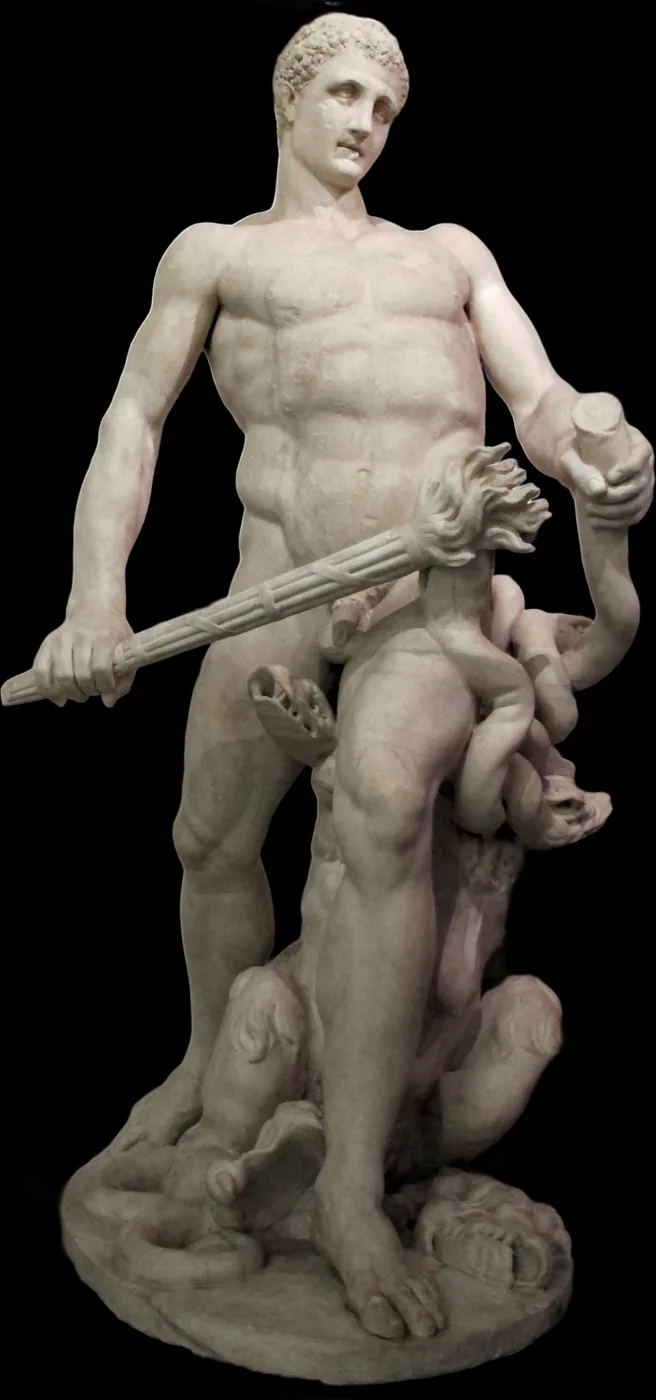
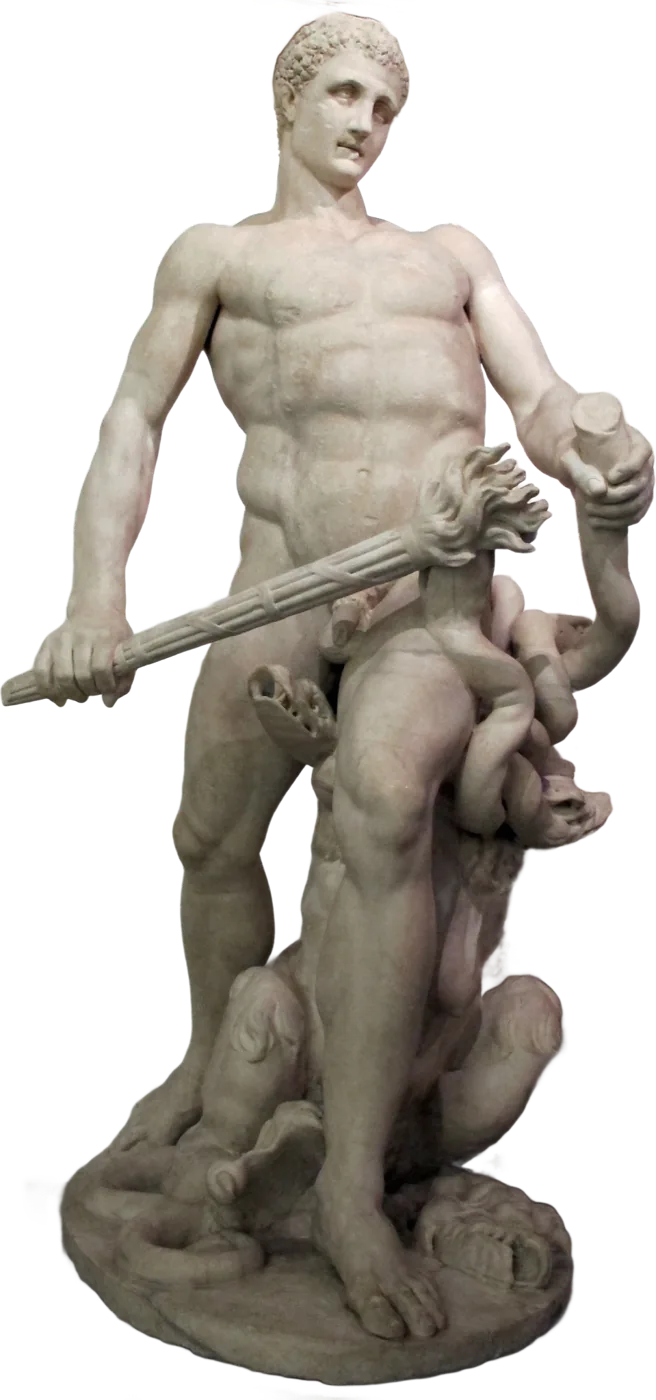
Show only the statue under the hover lens
The lens photos were saved on solid black, so the lime duotone painted a
dark olive box around each statue. Save them with their cut-out alpha
instead, and clear the lens to the fold's own background (light on the
Prizes fold) rather than always black.

diff --git a/src/components/art/Statue.tsx b/src/components/art/Statue.tsx
@@ -59,12 +59,15 @@ export default function Statue({
   name,
   alt,
   ink = "#f2f2f2",
+  paper = "#000",
   className = "",
 }: {
   name: StatueName;
   alt: string;
   /** Dot colour; pass a dark ink when placing the statue on a light fold. */
   ink?: string;
+  /** Background behind the statue, so the hover lens blends into the fold. */
+  paper?: string;
   className?: string;
 }) {
   const canvasRef = useRef<HTMLCanvasElement>(null);
@@ -127,7 +130,7 @@ export default function Statue({
       (x, y, open) => {
         ctx.clearRect(0, 0, cw, ch);
         ctx.drawImage(dots, 0, 0, cw, ch);
-        drawLens(ctx, x, y, open, mono, () => ctx.drawImage(photo, 0, 0, cw, ch));
+        drawLens(ctx, x, y, open, mono, () => ctx.drawImage(photo, 0, 0, cw, ch), paper);
       },
     );
 
@@ -158,7 +161,7 @@ export default function Statue({
       lensMedia.removeEventListener("change", layout);
       lens.dispose();
     };
-  }, [name, ink]);
+  }, [name, ink, paper]);
 
   return (
     <div role="img" aria-label={alt} className={`relative ${className}`} style={{ aspectRatio: ASPECT[name] }}>

diff --git a/src/components/home/Prizes.tsx b/src/components/home/Prizes.tsx
@@ -13,7 +13,7 @@ export default function Prizes() {
         <SectionHeading eyebrow="Prizes" dim="Three on the podium," bright="Something for all." intro={prizes.podiumNote} />
         {/* The Discobolus: an Olympic athlete mid-throw, on the light fold in dark ink. */}
         <figure className="mx-auto w-56">
-          <Statue name="discobolus" ink="#141414" alt="The Discobolus, an athlete throwing a discus, printed as a halftone" className="mx-auto w-32 lg:w-36" />
+          <Statue name="discobolus" ink="#141414" paper="#f2f2f2" alt="The Discobolus, an athlete throwing a discus, printed as a halftone" className="mx-auto w-32 lg:w-36" />
           <Caption n={4}>Myron’s discus thrower: winners were crowned with olive, yours get hardware.</Caption>
         </figure>
       </div>

diff --git a/src/components/hero/lens.ts b/src/components/hero/lens.ts
@@ -57,6 +57,8 @@ export function drawLens(
   open: number,
   mono: string,
   content: () => void,
+  /** Colour the lens clears to before `content`; match the page behind it. */
+  paper = "#000",
 ) {
   if (open <= 0.001) return;
   const r = LENS * open;
@@ -64,7 +66,7 @@ export function drawLens(
   ctx.beginPath();
   ctx.rect(x - r, y - r, 2 * r, 2 * r);
   ctx.clip();
-  ctx.fillStyle = "#000";
+  ctx.fillStyle = paper;
   ctx.fill();
   content();
   ctx.restore();
